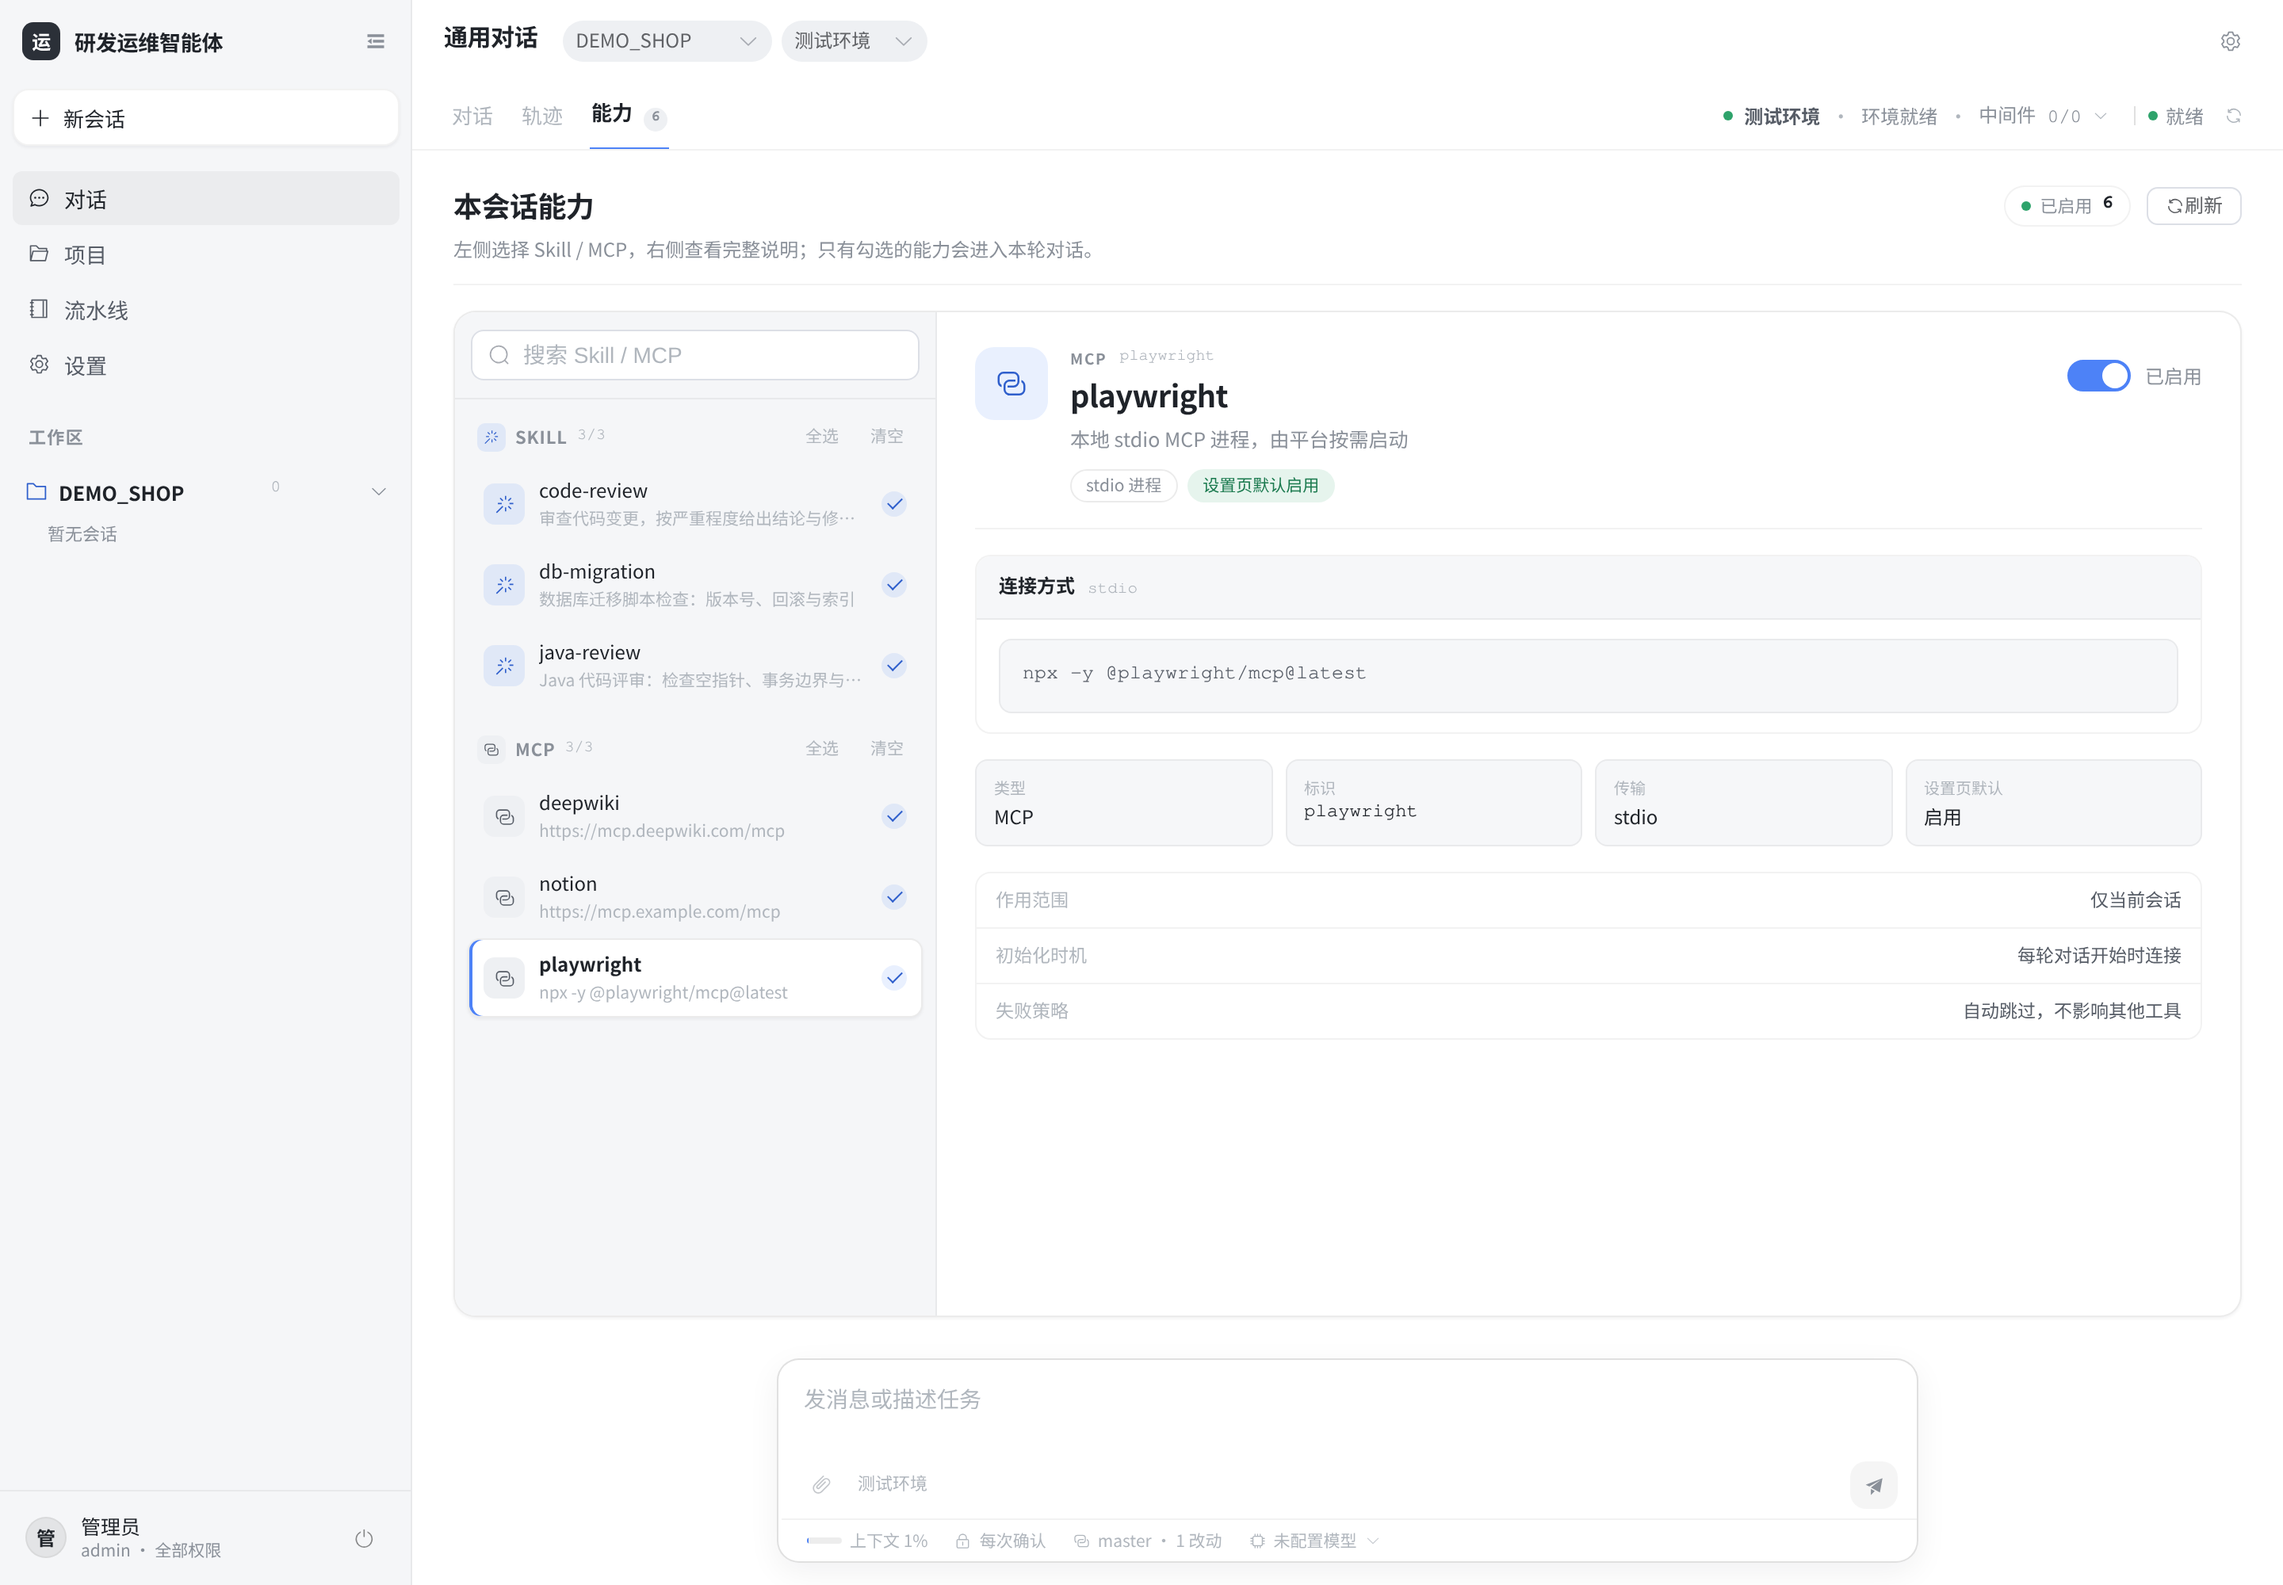
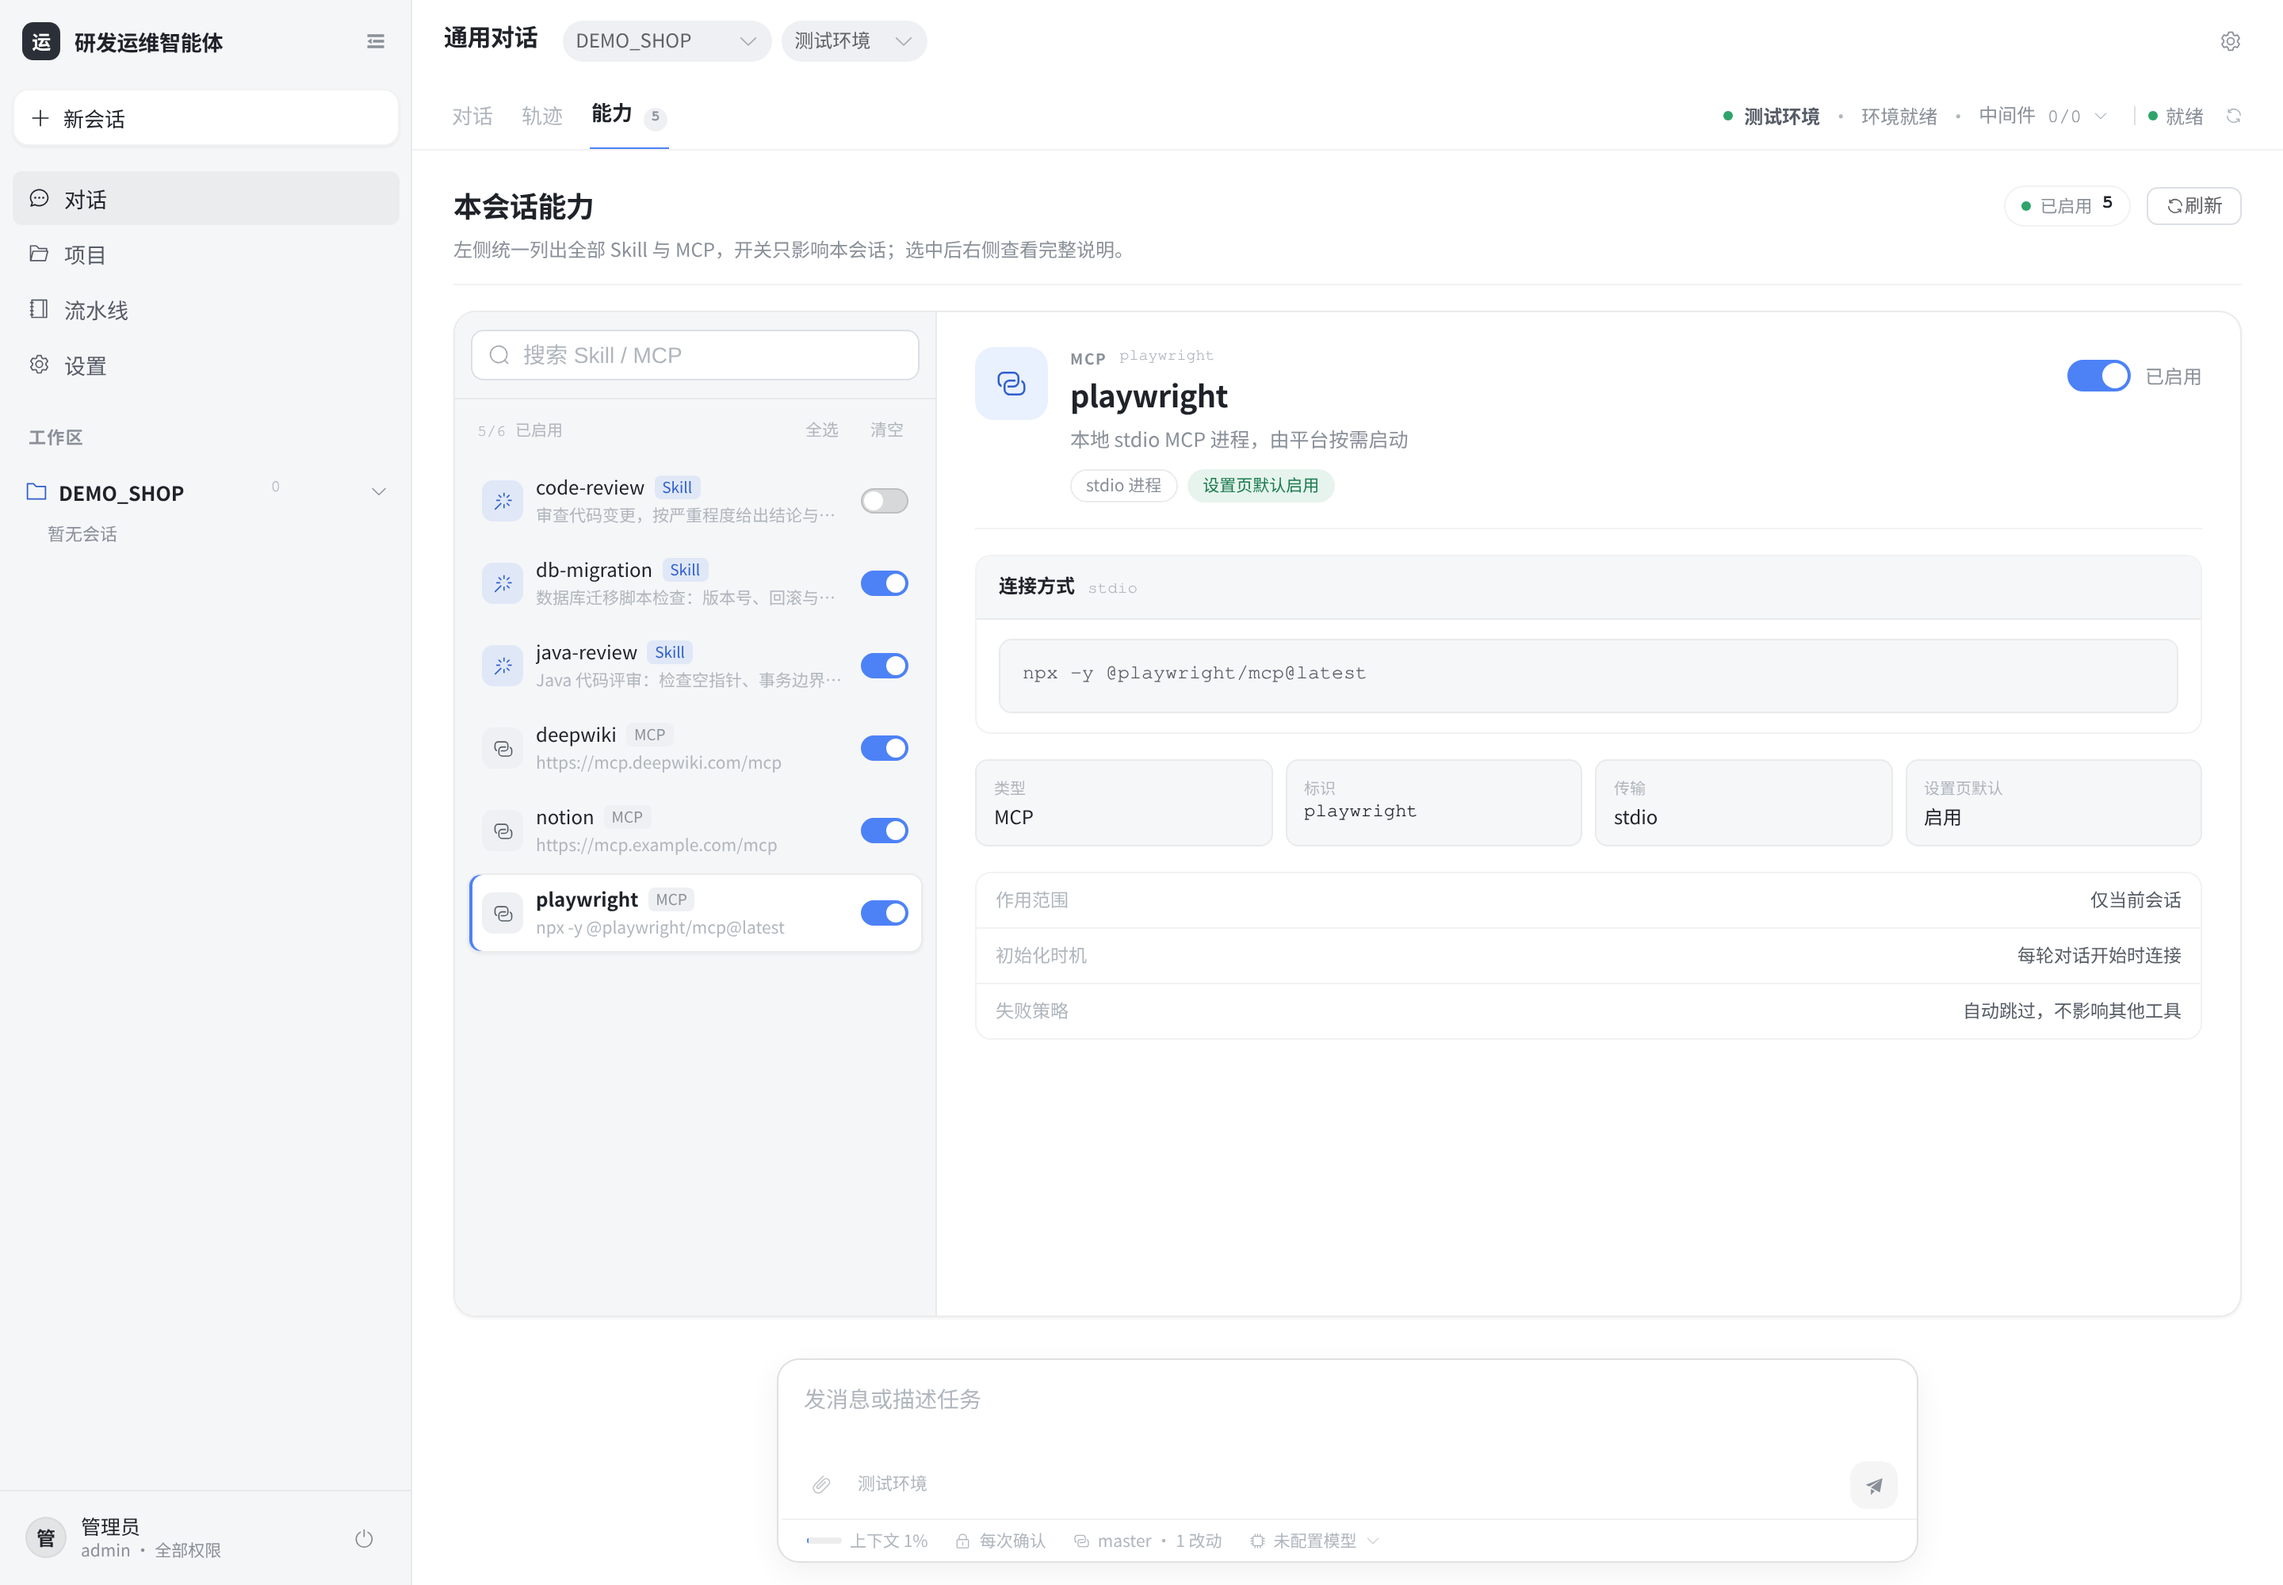
feat: update workspace

diff --git a/platform/web/src/components/chat/ChatCapabilitiesView.vue b/platform/web/src/components/chat/ChatCapabilitiesView.vue
@@ -50,8 +50,7 @@ function matches(o: CapabilityOption): boolean {
   return `${o.label} ${o.key} ${o.description}`.toLowerCase().includes(q)
 }
 
-const filteredSkills = computed(() => props.skillOptions.filter(matches))
-const filteredMcp = computed(() => props.mcpOptions.filter(matches))
+const filteredItems = computed(() => items.value.filter(matches))
 
 watch(items, (list) => {
   if (!list.some((i) => keyOf(i) === activeKey.value)) {
@@ -119,14 +118,10 @@ function toggleActive(on: boolean): void {
   if (active.value) toggle(active.value, on)
 }
 
-function toggleAll(kind: 'skill' | 'mcp', on: boolean): void {
-  const options = kind === 'skill' ? props.skillOptions : props.mcpOptions
-  const current = kind === 'skill' ? props.skills : props.mcp
-  const next = on
-    ? Array.from(new Set([...current, ...options.map((o) => o.key)]))
-    : current.filter((key) => !options.some((o) => o.key === key))
-  if (kind === 'skill') emit('update:skills', next)
-  else emit('update:mcp', next)
+/** 全选 / 清空：Skill 与 MCP 一起处理，列表不再分组。 */
+function toggleAll(on: boolean): void {
+  emit('update:skills', on ? props.skillOptions.map((o) => o.key) : [])
+  emit('update:mcp', on ? props.mcpOptions.map((o) => o.key) : [])
 }
 
 function kindLabel(kind: 'skill' | 'mcp'): string {
@@ -148,7 +143,7 @@ function formatTime(ts?: number): string {
         <div class="cap-head-main">
           <h1 class="cap-title">本会话能力</h1>
           <p class="cap-desc">
-            左侧选择 Skill / MCP，右侧查看完整说明；只有勾选的能力会进入本轮对话。
+            左侧统一列出全部 Skill 与 MCP，开关只影响本会话；选中后右侧查看完整说明。
           </p>
         </div>
         <div class="cap-head-side">
@@ -172,57 +167,45 @@ function formatTime(ts?: number): string {
           </div>
 
           <div class="cap-scroll">
-            <section class="cap-group">
-              <div class="group-head">
-                <span class="group-icon skill"><el-icon><MagicStick /></el-icon></span>
-                <span class="group-title">Skill</span>
-                <span class="group-count mono">{{ skills.length }}/{{ skillOptions.length }}</span>
-                <span class="group-actions">
-                  <button type="button" class="link" @click="toggleAll('skill', true)">全选</button>
-                  <button type="button" class="link" @click="toggleAll('skill', false)">清空</button>
-                </span>
-              </div>
-              <div v-if="!skillOptions.length" class="group-empty">可在 设置 → Skill 市场 接入</div>
-              <div v-else-if="!filteredSkills.length" class="group-empty">没有匹配的 Skill</div>
-              <button
-                v-for="o in filteredSkills" :key="`skill-${o.key}`" type="button"
-                class="cap-item" :class="{ active: activeKey === `skill:${o.key}` }"
-                @click="activeKey = `skill:${o.key}`"
-              >
-                <span class="item-icon skill"><el-icon><MagicStick /></el-icon></span>
-                <span class="item-main">
-                  <span class="item-name">{{ o.label }}</span>
-                  <span class="item-desc">{{ o.description || '（无描述）' }}</span>
-                </span>
-                <span class="item-on" :class="{ on: skills.includes(o.key) }" />
-              </button>
-            </section>
+            <div class="list-head">
+              <span class="list-count mono">{{ count }}/{{ items.length }} 已启用</span>
+              <span class="group-actions">
+                <button type="button" class="link" @click="toggleAll(true)">全选</button>
+                <button type="button" class="link" @click="toggleAll(false)">清空</button>
+              </span>
+            </div>
 
-            <section class="cap-group">
-              <div class="group-head">
-                <span class="group-icon mcp"><el-icon><Connection /></el-icon></span>
-                <span class="group-title">MCP</span>
-                <span class="group-count mono">{{ mcp.length }}/{{ mcpOptions.length }}</span>
-                <span class="group-actions">
-                  <button type="button" class="link" @click="toggleAll('mcp', true)">全选</button>
-                  <button type="button" class="link" @click="toggleAll('mcp', false)">清空</button>
+            <div v-if="!items.length" class="group-empty">
+              还没有能力，可在 设置 → Skill / MCP 市场 接入
+            </div>
+            <div v-else-if="!filteredItems.length" class="group-empty">没有匹配的能力</div>
+
+            <div
+              v-for="i in filteredItems" :key="keyOf(i)"
+              class="cap-item" :class="{ active: activeKey === keyOf(i) }"
+              role="button" tabindex="0"
+              @click="activeKey = keyOf(i)"
+              @keydown.enter="activeKey = keyOf(i)"
+            >
+              <span class="item-icon" :class="i.kind">
+                <el-icon><component :is="i.kind === 'skill' ? MagicStick : Connection" /></el-icon>
+              </span>
+              <span class="item-main">
+                <span class="item-title">
+                  <span class="item-name">{{ i.label }}</span>
+                  <span class="item-type" :class="i.kind">{{ kindLabel(i.kind) }}</span>
                 </span>
-              </div>
-              <div v-if="!mcpOptions.length" class="group-empty">可在 设置 → MCP 市场 接入</div>
-              <div v-else-if="!filteredMcp.length" class="group-empty">没有匹配的 MCP</div>
-              <button
-                v-for="o in filteredMcp" :key="`mcp-${o.key}`" type="button"
-                class="cap-item" :class="{ active: activeKey === `mcp:${o.key}` }"
-                @click="activeKey = `mcp:${o.key}`"
-              >
-                <span class="item-icon mcp"><el-icon><Connection /></el-icon></span>
-                <span class="item-main">
-                  <span class="item-name">{{ o.label }}</span>
-                  <span class="item-desc">{{ o.description || '（未配置地址）' }}</span>
+                <span class="item-desc">
+                  {{ i.description || (i.kind === 'skill' ? '（无描述）' : '（未配置地址）') }}
                 </span>
-                <span class="item-on" :class="{ on: mcp.includes(o.key) }" />
-              </button>
-            </section>
+              </span>
+              <el-switch
+                :model-value="isOn(i)" size="small" class="item-switch"
+                :aria-label="`本次对话启用 ${i.label}`"
+                @click.stop
+                @change="(v: string | number | boolean) => toggle(i, Boolean(v))"
+              />
+            </div>
           </div>
         </aside>
 
@@ -434,46 +417,17 @@ function formatTime(ts?: number): string {
   display: flex;
   flex: 1;
   flex-direction: column;
-  gap: 14px;
+  gap: 2px;
   padding: 10px 8px 12px;
   overflow-y: auto;
 }
-.cap-group {
+.list-head {
   display: flex;
-  flex-direction: column;
-  gap: 1px;
-}
-.group-head {
-  display: flex;
-  gap: 6px;
+  gap: 8px;
   align-items: center;
-  padding: 4px 6px 7px;
+  padding: 0 6px 8px;
 }
-.group-icon {
-  display: flex;
-  align-items: center;
-  justify-content: center;
-  width: 18px;
-  height: 18px;
-  font-size: 10px;
-  border-radius: 5px;
-}
-.group-icon.skill {
-  color: var(--accent-ink);
-  background: var(--accent-soft);
-}
-.group-icon.mcp {
-  color: var(--ink-soft);
-  background: var(--surface-sunken);
-}
-.group-title {
-  font-size: 11px;
-  font-weight: 600;
-  letter-spacing: 0.04em;
-  text-transform: uppercase;
-  color: var(--ink-muted);
-}
-.group-count {
+.list-count {
   flex: 1;
   font-size: 10px;
   color: var(--ink-faint);
@@ -505,18 +459,22 @@ function formatTime(ts?: number): string {
 .cap-item {
   position: relative;
   display: flex;
-  gap: 9px;
+  gap: 8px;
   align-items: center;
   width: 100%;
-  padding: 7px 9px;
+  padding: 7px 8px;
   font-family: inherit;
   text-align: left;
   cursor: pointer;
   background: none;
   border: 1px solid transparent;
   border-radius: 8px;
+  outline: none;
   transition: background-color var(--dur-fast) var(--ease-out),
     border-color var(--dur-fast) var(--ease-out), box-shadow var(--dur-fast) var(--ease-out);
+}
+.cap-item:focus-visible {
+  border-color: var(--accent);
 }
 .cap-item:hover {
   background: var(--surface-raised);
@@ -552,6 +510,7 @@ function formatTime(ts?: number): string {
   gap: 2px;
 }
 .item-name {
+  min-width: 0;
   overflow: hidden;
   font-size: 12px;
   color: var(--ink);
@@ -568,31 +527,31 @@ function formatTime(ts?: number): string {
   text-overflow: ellipsis;
   white-space: nowrap;
 }
-/* 启用态用空心圆 → 实心对勾，比小圆点更明确 */
-.item-on {
-  position: relative;
+.item-title {
+  display: flex;
+  gap: 6px;
+  align-items: center;
+  min-width: 0;
+}
+.item-type {
   flex: none;
-  width: 16px;
-  height: 16px;
-  border: 1.5px solid var(--line-strong);
-  border-radius: 50%;
-  transition: background-color var(--dur-fast) var(--ease-out),
-    border-color var(--dur-fast) var(--ease-out);
+  padding: 0 5px;
+  font-size: 9.5px;
+  line-height: 15px;
+  border-radius: 4px;
 }
-.item-on.on {
+.item-type.skill {
+  color: var(--accent-ink);
   background: var(--accent-soft);
-  border-color: transparent;
 }
-.item-on.on::after {
-  position: absolute;
-  top: 1px;
-  left: 4.5px;
-  width: 4px;
-  height: 8px;
-  content: '';
-  border: solid var(--accent-ink);
-  border-width: 0 1.5px 1.5px 0;
-  transform: rotate(45deg);
+.item-type.mcp {
+  color: var(--ink-muted);
+  background: var(--surface-sunken);
+}
+.item-switch {
+  flex: none;
+  --el-switch-on-color: var(--accent);
+  --el-switch-off-color: var(--line-strong);
 }
 
 /* 右栏详情 */
